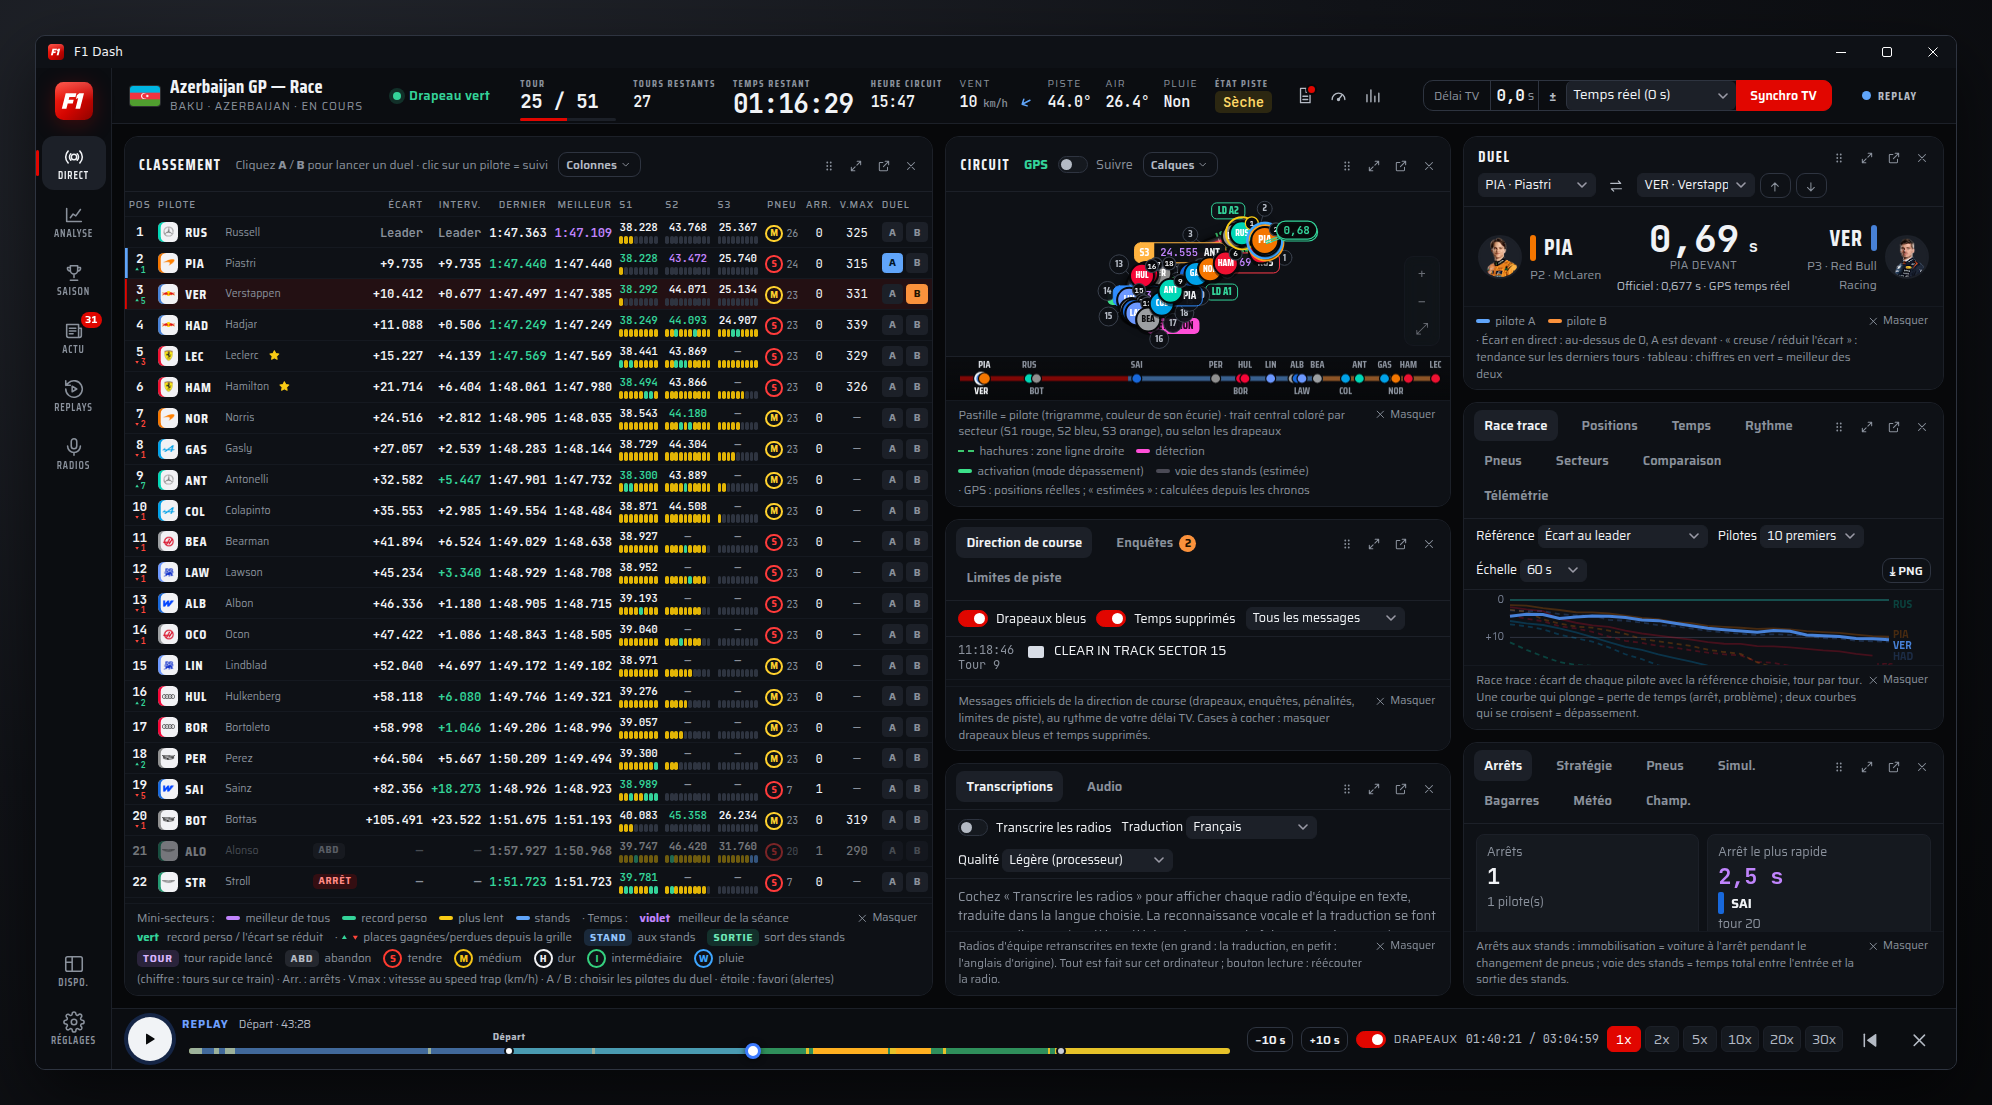
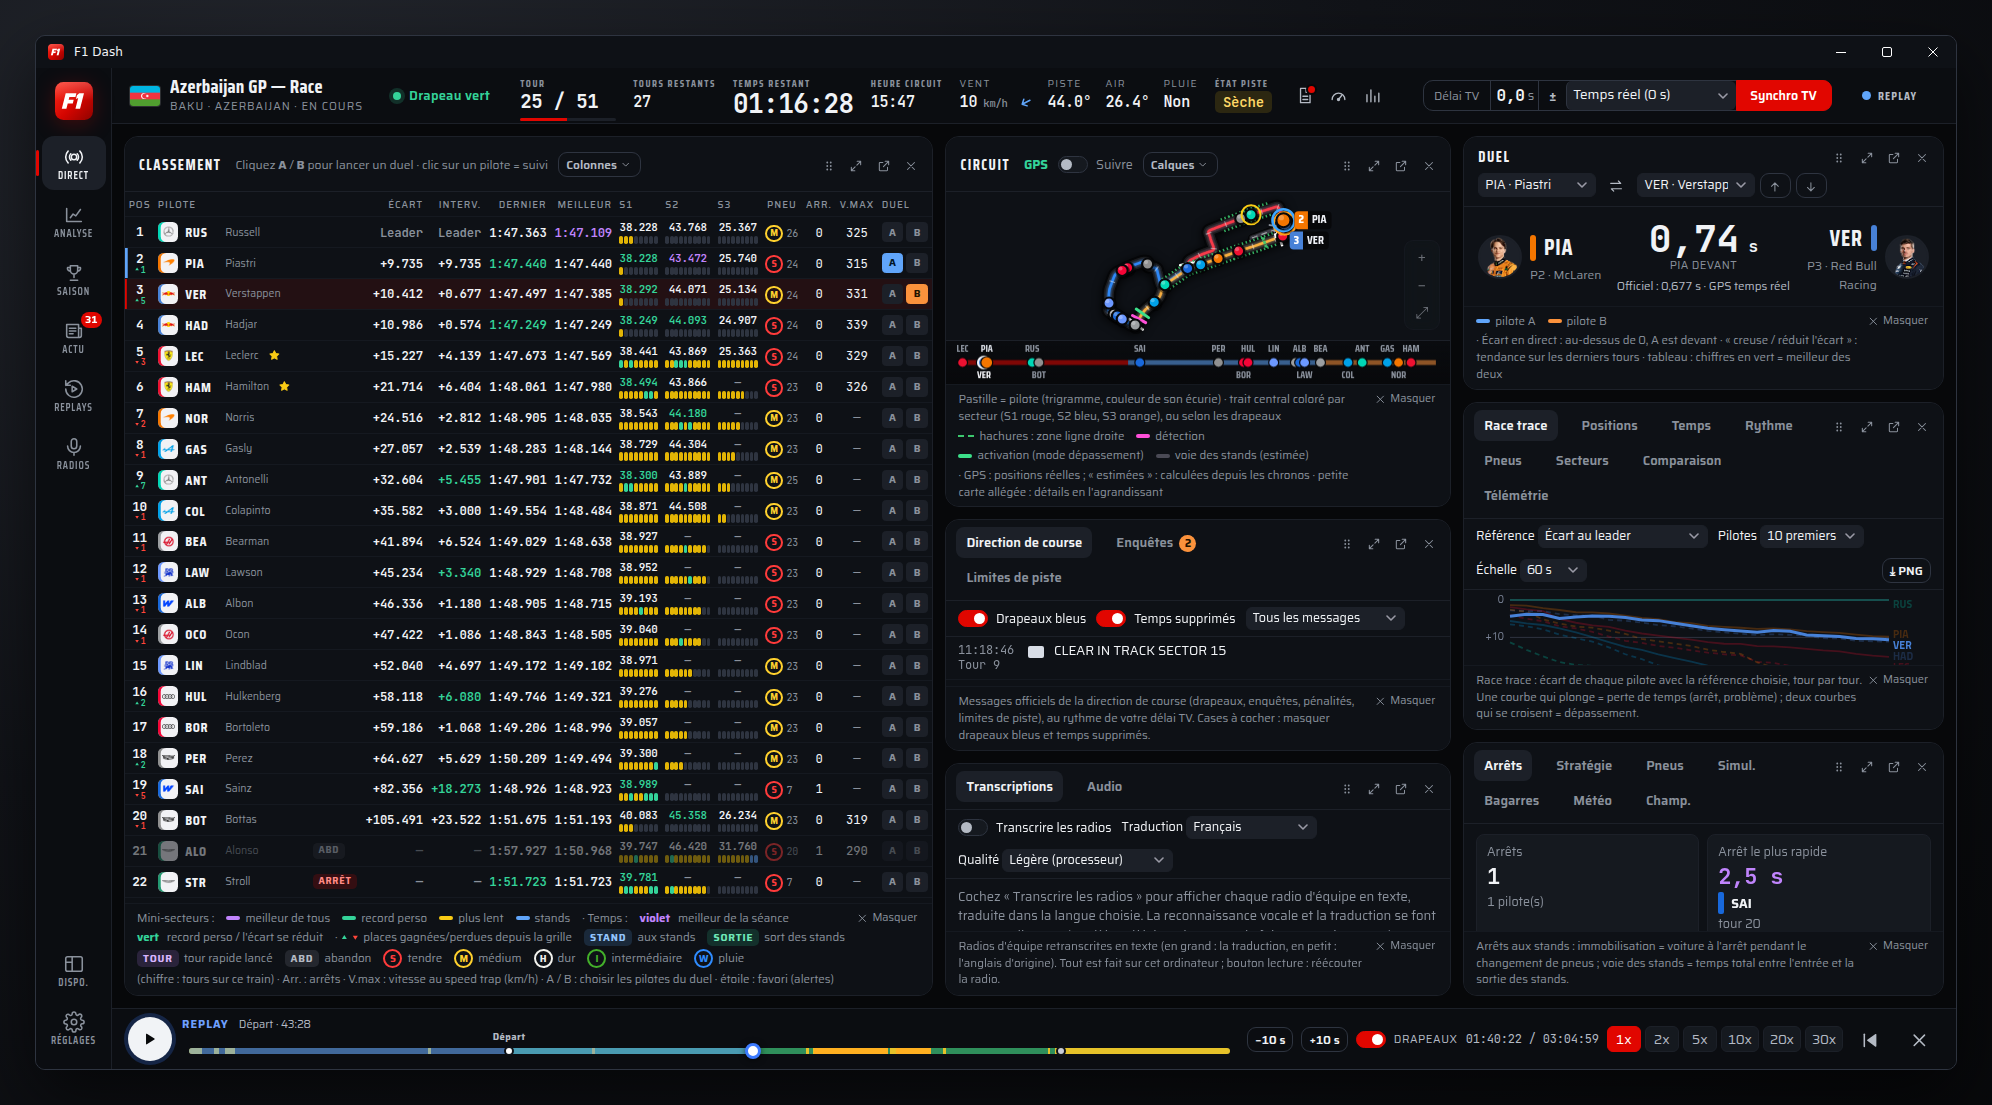
Carte : niveau de détail selon sa taille à l'écran
La mini-carte du tableau de bord était illisible : pastilles, numéros de
virage, meilleurs secteurs, zones et écarts se recouvraient sur un tracé
d'à peine 100 px.

- Niveau de détail calculé d'après la taille réelle du tracé (panneau et
  zoom) : petite carte en simples points (pilotes suivis nommés), carte
  moyenne avec trigrammes sans virages, positions, écarts ni étiquettes,
  grande carte inchangée.
- Marge autour du tracé proportionnelle à la carte (le tracé gagne de la
  place sur une petite carte).
- Mode clair : contour, ombre et liseré des pastilles plus légers.
- Légende, CHANGELOG et captures d'écran mis à jour.

Claude-Session: https://claude.ai/code/session_01WgEz3ZSgjwLPy4E2f6uwb7

diff --git a/public/js/ui/map.js b/public/js/ui/map.js
@@ -19,15 +19,27 @@ let lastFrame = performance.now();
 // Couleurs de la carte (thème Pitwall) : fond adapté à l'apparence, piste toujours en asphalte sombre
 const PAL_DARK = {
   outline: '#050608', edge: 'rgba(255,255,255,.09)', track: '#262B34', trackLine: '#4A5260',
-  glow: 'rgba(96,165,250,.035)', dots: 'rgba(255,255,255,.05)',
+  glow: 'rgba(96,165,250,.035)', dots: 'rgba(255,255,255,.05)', shadow: 'rgba(0, 0, 0, .75)',
   chip: 'rgba(14,17,22,.96)', chipEdge: '#3A414D', chipText: '#B4BAC4', label: 'rgba(7,8,10,.92)', ring: '#07080A',
 };
-const PAL_LIGHT = { ...PAL_DARK, glow: 'rgba(37,99,235,.04)', dots: 'rgba(14,17,22,.07)' };
+const PAL_LIGHT = {
+  ...PAL_DARK, outline: '#B4BCC8', edge: 'rgba(255,255,255,.6)', shadow: 'rgba(15, 23, 42, .22)', ring: '#FFFFFF',
+  glow: 'rgba(37,99,235,.04)', dots: 'rgba(14,17,22,.07)',
+};
 const lightUI = () => document.documentElement.dataset.scheme === 'light';
 const pal = () => (lightUI() ? PAL_LIGHT : PAL_DARK);
 // Polices de la carte : Saira Condensed ; chiffres en chasse fixe
 const FONT = () => '"Saira Condensed", "Titillium Web", sans-serif';
 const MONO = () => '"JetBrains Mono", Consolas, monospace';
+
+// Niveau de détail selon la taille réelle du tracé à l'écran (taille du panneau et zoom) :
+// 0 = petite carte (points, pilotes suivis nommés), 1 = moyenne (pastilles avec trigramme, sans
+// virages, positions, écarts ni étiquettes), 2 = tout.
+// Évite une mini-carte illisible où pastilles, virages et étiquettes se recouvrent.
+function detail() {
+  const e = (xf?.base?.extent || 1e4) * view.z;
+  return e < 220 ? 0 : e < 520 ? 1 : 2;
+}
 
 // Largeur de la piste à l'écran : proportionnelle à la taille de la carte, élargie au zoom.
 function trackWidth() {
@@ -98,9 +110,10 @@ function makeTransform() {
     if (rx < minX) minX = rx; if (rx > maxX) maxX = rx;
     if (ry < minY) minY = ry; if (ry > maxY) maxY = ry;
   }
-  const pad = 36;
   // Place laissée en bas pour la bande « ordre sur la piste »
   const below = $('#mapRibbon2')?.checked ? 44 : 0;
+  // Marge autour du tracé : réduite sur une petite carte pour lui laisser la place
+  const pad = Math.max(12, Math.min(36, Math.min(size.w, size.h - below) * 0.1));
   const bw = maxX - minX || 1, bh = maxY - minY || 1;
   const scale = Math.min((size.w - pad * 2) / bw, (size.h - below - pad * 2) / bh);
   const ox = (size.w - bw * scale) / 2 - minX * scale;
@@ -110,6 +123,7 @@ function makeTransform() {
     return [rx * scale + ox, ry * scale + oy];
   };
   f.scale = scale;
+  f.extent = Math.sqrt(bw * bh) * scale;   // taille moyenne du tracé à l'écran (niveau de détail)
   return f;
 }
 
@@ -245,7 +259,7 @@ function drawPitLane(W) {
   // Du côté opposé à la piste
   const mn = near[pts.length >> 1];
   if ((nx * mn.nx + ny * mn.ny) * side < 0) { nx = -nx; ny = -ny; }
-  badge(m[0] + nx * (w / 2 + 14), m[1] + ny * (w / 2 + 14), 'STANDS', '#3a3a44', '#e6e6ee');
+  if (detail() > 1) badge(m[0] + nx * (w / 2 + 14), m[1] + ny * (w / 2 + 14), 'STANDS', '#3a3a44', '#e6e6ee');
   ctx.restore();
 }
 
@@ -259,16 +273,17 @@ function drawZones() {
   ctx.lineCap = 'round';
   // Zones « ligne droite » : hachures vertes de part et d'autre de la piste
   ctx.lineCap = 'butt';
+  const small = detail() === 0;   // petite carte : hachures plus fines et plus proches
   for (const z of zones.zones) {
     ctx.strokeStyle = 'rgba(60, 200, 110, 0.85)';
-    ctx.lineWidth = 4;
-    ctx.setLineDash([2, 3]);
-    strokeOffset(z.from, z.to, W / 2 + 3.5);
-    strokeOffset(z.from, z.to, -(W / 2 + 3.5));
+    ctx.lineWidth = small ? 2.5 : 4;
+    ctx.setLineDash(small ? [1.5, 2.5] : [2, 3]);
+    strokeOffset(z.from, z.to, W / 2 + (small ? 2.5 : 3.5));
+    strokeOffset(z.from, z.to, -(W / 2 + (small ? 2.5 : 3.5)));
     ctx.setLineDash([]);
   }
   // Nom de chaque zone (officiel : A1, A2…) au milieu, à l'extérieur de la piste
-  zones.zones.forEach((z, k) => {
+  if (detail() > 1) zones.zones.forEach((z, k) => {
     const len = (z.to - z.from + n) % n;
     const i = (z.from + Math.floor(len / 2)) % n;
     const p = pts[i], a = pts[(i - 1 + n) % n], b = pts[(i + 1) % n];
@@ -290,7 +305,7 @@ function drawZones() {
     ctx.moveTo(p[0] - nx * (W / 2 + 4), p[1] - ny * (W / 2 + 4));
     ctx.lineTo(p[0] + nx * (W / 2 + 4), p[1] + ny * (W / 2 + 4));
     ctx.stroke();
-    badge(p[0] + nx * (W / 2 + 20), p[1] + ny * (W / 2 + 20), text, color, ink);
+    if (detail() > 1) badge(p[0] + nx * (W / 2 + 20), p[1] + ny * (W / 2 + 20), text, color, ink);
   };
   mark(zones.detection, '#ff4fd8', '#2a0623', 'DÉTECTION', 1);
   mark(zones.activation, '#3ce08a', '#062414', 'ACTIVATION', -1);
@@ -773,7 +788,7 @@ function drawBackground(now, red, sc, vsc, scMode, flags, lay) {
   };
   path();
   ctx.save();
-  ctx.shadowColor = 'rgba(0, 0, 0, .75)';
+  ctx.shadowColor = pal().shadow;
   ctx.shadowBlur = W * 1.4;
   ctx.shadowOffsetY = W * 0.25;
   ctx.strokeStyle = pal().outline;
@@ -858,7 +873,7 @@ function drawBackground(now, red, sc, vsc, scMode, flags, lay) {
   drawStartLine(W);
 
   // Numéros de virage (pastilles à l'extérieur de la piste)
-  if ($('#mapCorners').checked) {
+  if ($('#mapCorners').checked && detail() > 1) {
     const fs = Math.min(13, 10 + (view.z - 1) * 1.2);
     ctx.font = `700 ${fs}px ${FONT()}`;
     ctx.textAlign = 'center';
@@ -889,7 +904,7 @@ function drawBackground(now, red, sc, vsc, scMode, flags, lay) {
     }
   }
 
-  if (!red && !scMode && $('#mapSectors').checked) drawSectorLabels(lay);
+  if (!red && !scMode && $('#mapSectors').checked && detail() > 1) drawSectorLabels(lay);
   return flagZones;
 }
 
@@ -1068,7 +1083,9 @@ function drawCars(dt) {
   const lines = s.TimingData?.Lines || {};
   const disp = displayNow();
   const gps = store.positions.hasGps(disp);
-  const labels = $('#mapLabels').checked;
+  // Petite carte : simples points (noms seulement pour les pilotes suivis) ; moyenne : sans écarts ni positions
+  const lod = detail();
+  const labels = $('#mapLabels').checked && lod > 0;
   const mode = $('#mapMode');
   const modeTxt = gps ? 'GPS' : 'Positions estimées';
   if (mode.textContent !== modeTxt) {
@@ -1150,13 +1167,13 @@ function drawCars(dt) {
   }
 
   // Voitures (essais / qualifs, option : celles hors tour lancé sont estompées)
-  const posBadges = $('#mapPosBadges').checked;
+  const posOpt = $('#mapPosBadges').checked, posBadges = posOpt && lod > 1;
   const hot = hotLaps();
   for (const c of cars) c.cool = !!hot && !hot.has(c.num) && !c.sp;
   for (const c of cars) {
     const [x, y] = c.p;
     ctx.globalAlpha = c.cool ? 0.3 : 1;
-    if (!c.sp && posBadges && c.pos === 1) {
+    if (!c.sp && posOpt && c.pos === 1) {
       // Leader : anneau jaune
       ctx.beginPath();
       ctx.arc(x, y, c.r + 4, 0, Math.PI * 2);
@@ -1281,7 +1298,7 @@ function drawCars(dt) {
     ctx.globalAlpha = 1;
   }
 
-  if ($('#mapGaps').checked) drawGaps(cars, lines);
+  if ($('#mapGaps').checked && lod > 1) drawGaps(cars, lines);
   if ($('#mapFocusCard').checked) drawFocusCard(cars, lines, disp);
   lastCars = cars;
 

diff --git a/public/js/ui/legends.js b/public/js/ui/legends.js
@@ -27,7 +27,7 @@ const L = {
     _: [
       txt('Pastille = pilote (trigramme, couleur de son écurie) · trait central coloré par secteur (S1 rouge, S2 bleu, S3 orange), ou selon les drapeaux'),
       sw('#3cc86e', 'hachures : zone ligne droite', 'dash'), sw('#ff4fd8', 'détection'), sw('#3ce08a', 'activation (mode dépassement)'), sw('#4a4a55', 'voie des stands (estimée)'),
-      txt('· GPS : positions réelles ; « estimées » : calculées depuis les chronos'),
+      txt('· GPS : positions réelles ; « estimées » : calculées depuis les chronos · petite carte allégée : détails en l\'agrandissant'),
     ],
   },
   feed: {

diff --git a/CHANGELOG.md b/CHANGELOG.md
@@ -10,6 +10,11 @@ l'application (Réglages → Application → Nouveautés).
 - Un seul design pour toute l'application : **Pitwall**. Les anciens designs (F1 Pro, F1 sobre, Classique, Bleu nuit) sont retirés ; si vous en utilisiez un, l'application passe automatiquement sur Pitwall.
 - Nouveau **mode clair** : Réglages → Affichage → **Apparence** — Sombre (par défaut), Clair (idéal en plein jour) ou Automatique (suit le réglage de l'ordinateur ou du téléphone). Le changement est immédiat, carte, graphiques et couleurs des pneus compris.
 
+### Carte
+- **Petite carte lisible** : quand la carte est petite (tableau de bord, téléphone), elle s'allège automatiquement. Sur une très petite carte, les pilotes deviennent de simples points, et seuls les pilotes suivis sont nommés. Sur une carte moyenne, les pastilles gardent le trigramme, sans numéros de virage, positions ni écarts. Tous les détails reviennent en agrandissant la carte ou en zoomant.
+- Le tracé occupe davantage la place disponible sur une petite carte.
+- Mode clair : contour et ombre de la piste plus légers.
+
 ### Actualités
 - Les titres de la colonne de droite (À la une, dernières vidéos) sont eux aussi traduits en français.
 
